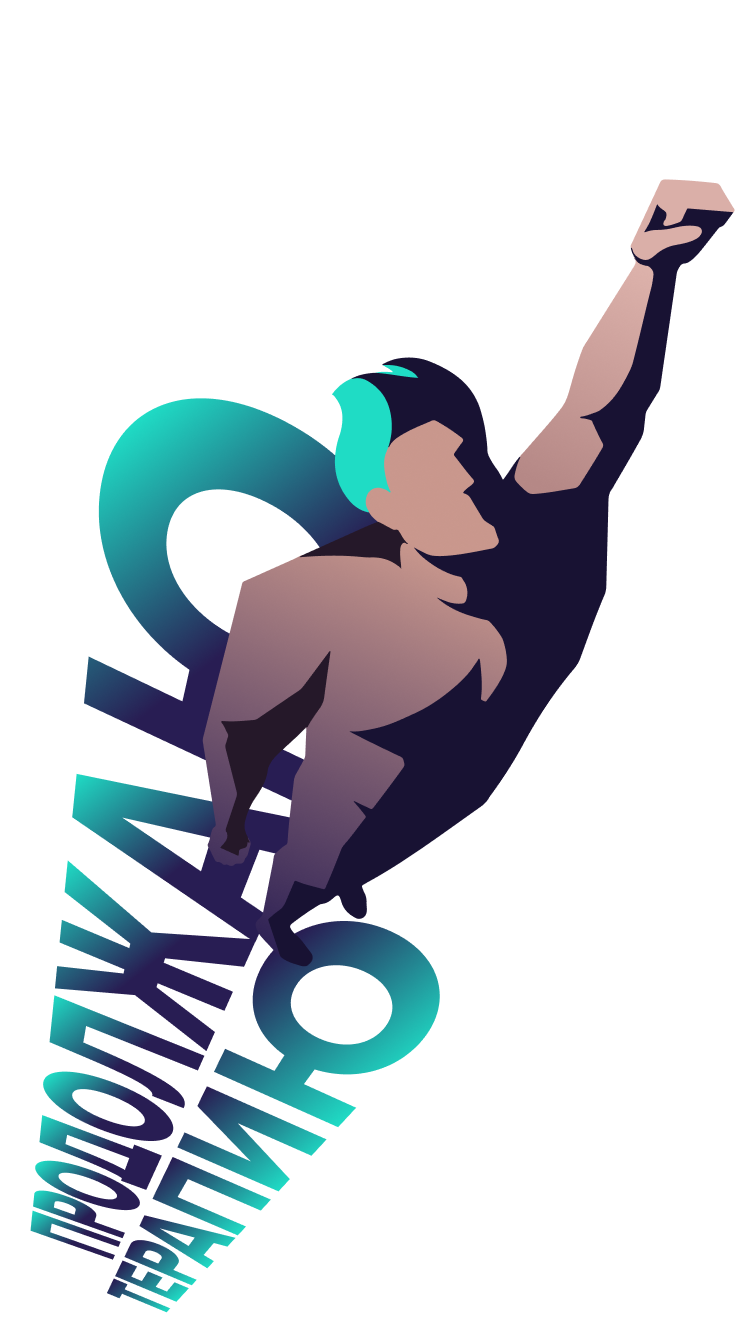
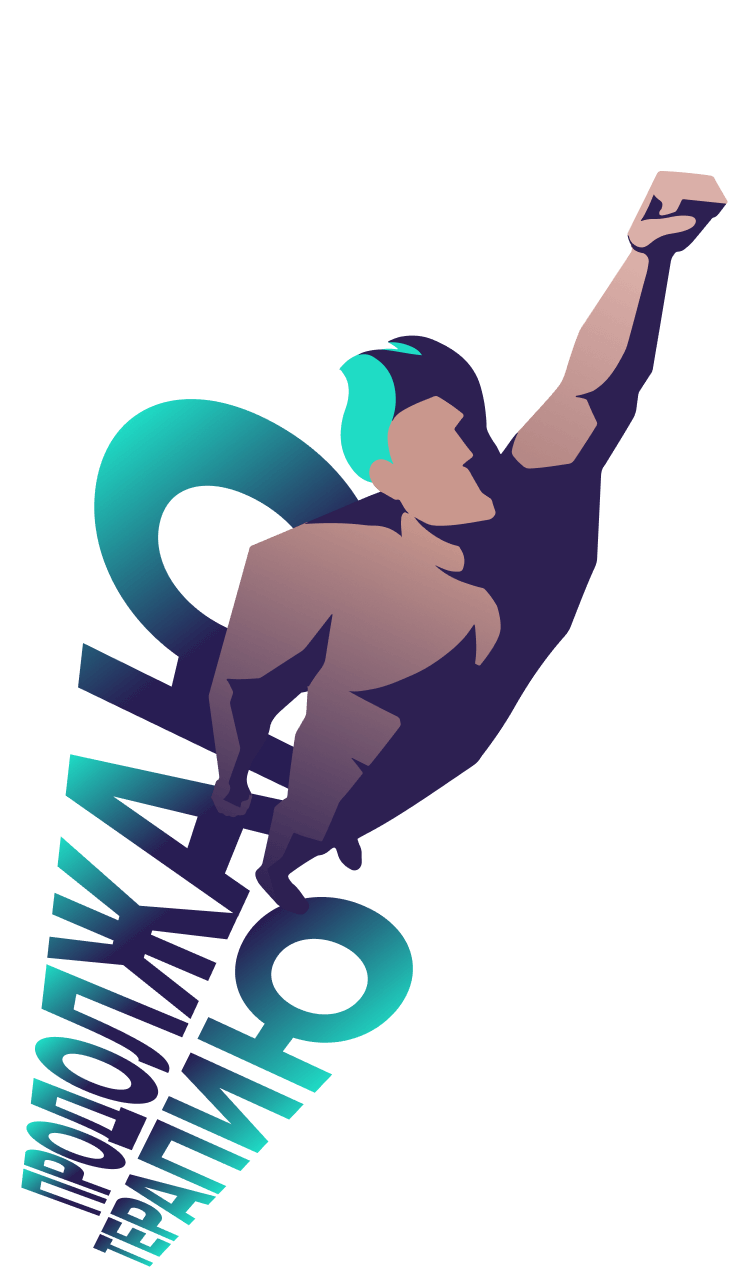
Выровнял по макету, обновил иллюстрации

Changed region(s): [[0.0307, 0.1244, 0.9813, 0.9953], [0.1533, 0.311, 0.2147, 0.3421], [0.3067, 0.4355, 0.3373, 0.4666]]

diff --git a/static/css/style.css b/static/css/style.css
@@ -149,7 +149,7 @@ a {
 
 .inner-container {
     width: 100%;
-    max-width: 800px;
+    max-width: 812px;
     margin: 0 auto;
 }
 
@@ -174,7 +174,7 @@ a {
 
 .header {
     min-height: 736px;
-    padding: 20px 0;
+    padding: 12px 0 20px 0;
     background-image: url("../images/bg-top.svg");
     background-size: cover;
     background-position: right 52% top;
@@ -185,8 +185,8 @@ a {
 .header:before {
     content: '';
     position: absolute;
-    top: 0%;
-    left: calc(63% - 645px);
+    top: 10px;
+    left: calc(63% - 634px);
     width: 1000px;
     min-height: 700px;
     background-image: url(../images/header_illustration.png);
@@ -239,10 +239,8 @@ a {
     -webkit-box-pack: center;
     -ms-flex-pack: center;
     justify-content: center;
-    width: 196px;
-    height: 62px;
     margin: 0;
-    padding: 0;
+    padding: 17px 18px 14px 20px;
 }
 
 .bot-btn:before {
@@ -289,7 +287,7 @@ a {
     text-transform: uppercase;
     font-weight: bold;
     font-size: 28px;
-    margin: 3px 0 0 2px;
+    letter-spacing: 1px;
 }
 
 .promo__title {
@@ -454,7 +452,7 @@ a {
 }
 
 .description__wrapper {
-    margin: 0 0 60px 0;
+    margin: 0 0 40px 0;
     display: -webkit-box;
     display: -ms-flexbox;
     display: flex;
@@ -833,13 +831,14 @@ a {
     }
 
     .header {
-        background-image: url(../images/header_bg_mob.svg);
+      padding: 24px 0 20px 0;
+      background-image: url(../images/header_bg_mob.svg);
     }
 
     .header:before {
         content: '';
         position: absolute;
-        top: 0%;
+        top: 5px;
         left: 50%;
         width: 375px;
         min-height: 660px;
@@ -852,10 +851,19 @@ a {
         transform: translateX(-50%);
     }
 
+    .header__text b {
+      font-size: 20px;
+      line-height: 24px;
+    }
+
 
     .bot-btn {
-        height: 42px;
-        width: 128px;
+      padding: 11px 9px 9px 10px;
+    }
+
+    .bot-btn--top {
+      left: 4px;
+      bottom: 2px;
     }
 
     .bot-btn span {
@@ -865,9 +873,9 @@ a {
     .bot-btn:before {
         content: '';
         position: absolute;
-        top: 4px;
+        top: 2px;
         left: 10px;
-        width: calc(100% - 10px);
+        width: calc(100% - 12px);
         height: 100%;
         transform: skew(-10deg);
         -webkit-transform: skew(-10deg);
@@ -894,7 +902,6 @@ a {
     }
 
     .header__text p {
-        width: 90%;
         max-width: 435px;
         font-size: 14px;
         line-height: 18px;

diff --git a/index.html b/index.html
@@ -22,7 +22,7 @@
 				<p>Бесплатный бот в&nbsp;телеграме напомнит о&nbsp;приёме лекарств и&nbsp;покажет, как АРВ-терапия
 					действует на&nbsp;организм</p>
 			</div>
-			<a href="tg://resolve?domain=ikeeponbot" class="header__btn bot-btn">
+			<a href="tg://resolve?domain=ikeeponbot" class="header__btn bot-btn bot-btn--top">
 				<span>Установить</span>
 			</a>
 		</div>
@@ -144,17 +144,17 @@
 				</a>
 				<div class="info__item-inner">
 					Если нужно записать один анализ, пришлите сообщение: <br/>
-					<p class="left-padding-20">
-						«и 350 01.12.2006» — иммунный статус;<br/>
-						«в 0 01.12.2006» — вирусная нагрузка.
-					</p>
+					<ul>
+						<li>«и 350 01.12.2006» — иммунный статус;</li>
+						<li>«в 0 01.12.2006» — вирусная нагрузка.</li>
+					</ul>
 					Есть хотите записать результаты за&nbsp;разные даты, отправьте их&nbsp;одним сообщением в&nbsp;виде
 					таблицы:<br/>
-					<p class="left-padding-20">
-						300 12000 01.12.2016<br/>
-						400 6000 01.12.2017<br/>
-						800 0 01.12.2018
-					</p>
+					<ul>
+						<li>300 12000 01.12.2016</li>
+						<li>400 6000 01.12.2017</li>
+						<li>800 0 01.12.2018</li>
+					</ul>
 					<p>Одна строка&nbsp;&mdash; одна дата; первое значение&nbsp;&mdash; иммунный статус, второе&nbsp;&mdash;
 						вирусная нагрузка.</p>
 				</div>
